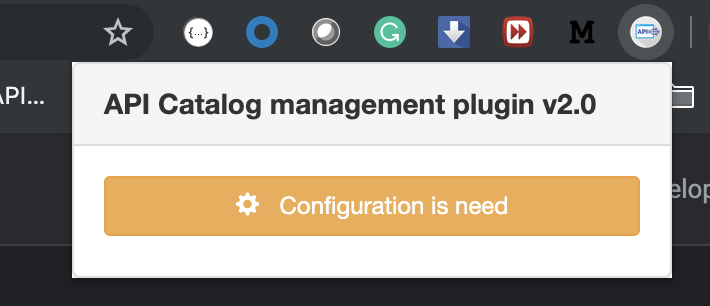
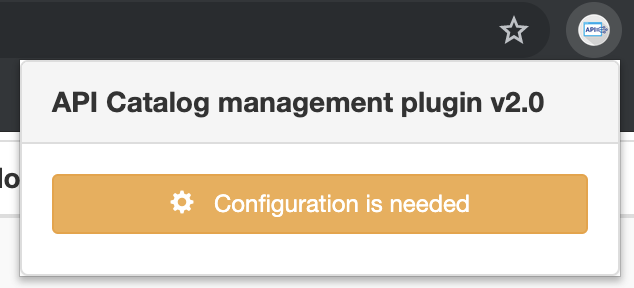
Fix typos in the configuration label (#6)

diff --git a/popup/popup.js b/popup/popup.js
@@ -10,7 +10,7 @@ function init() {
         button.setAttribute('style', 'width: 100%;margin-bottom: 5px');
         button.innerHTML = '<i class="glyphicon glyphicon-cog"></i>\n' +
             '                    &nbsp;\n' +
-            '                    Configuration is need';
+            '                    Configuration is needed';
 
         button.onclick = function(){
             chrome.tabs.update({ 'url': 'chrome://extensions/?options=' + chrome.runtime.id });

diff --git a/README.md b/README.md
@@ -19,7 +19,7 @@ After installation api catalog icon will be enabled in the toolbar and now need 
 
 ![alt text](doc-images/screen1.png)
 
-Click the `Configuration is need` and Configuration page will be shown as a dialog.
+Click the `Configuration is needed` and Configuration page will be shown as a dialog.
 
 ![alt text](doc-images/screen2.png)
 
